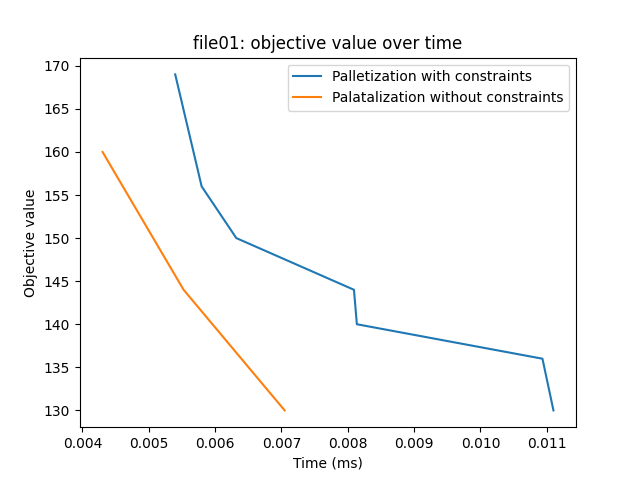
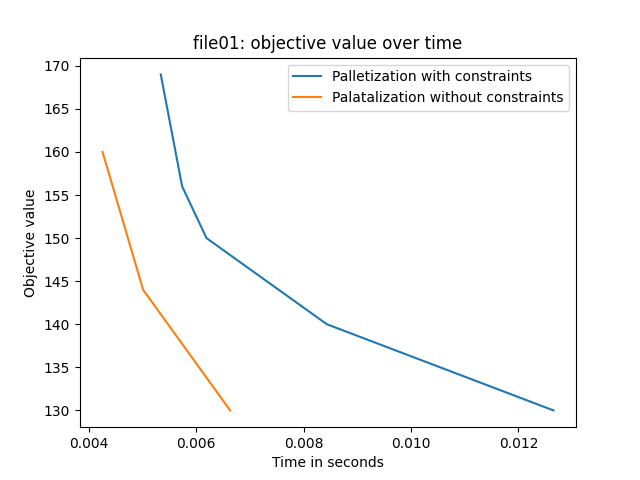
update

diff --git a/palletizationWithConstraints.py b/palletizationWithConstraints.py
@@ -306,7 +306,7 @@ if __name__ == "__main__":
     plt.plot(x_axis_2, y_axis_2, label="Palatalization without constraints")
     plt.legend()
 
-    plt.xlabel("Time (ms)")
+    plt.xlabel("Time in seconds")
     plt.ylabel("Objective value")
     plt.title(f"{fileName}: objective value over time")
     plt.savefig(f"{fileName}_optimization_progress.png")

diff --git a/README.md b/README.md
@@ -26,6 +26,17 @@ The **_benchmarks/data_** directory contains the files with the data for the pro
 - The second section contains the index of pairs of elements which have to be adjacent.
 - The third section contains the index pairs of elements which cannot be adjacent.
 
+Thus, the dimensions of elements will be:
+[(3, 5), (1, 4), (2, 6), (4, 7), (10, 5), (3, 6)]
+
+the adjacency elements will be:
+[(0, 1), (5, 4), (3, 2)]
+
+and the non-adjacency elements will be:
+[(1, 2)]
+
+**Note**: the adjacency and non-adjacency elements are indexed from 0, where 0 is the first element in the list and so on.
+
 It is possible to solve this problem in two ways:
 
 1. The basic one, without constraints
@@ -36,11 +47,11 @@ The solutions are stores in the **_benchmarks/_** directory, in the form of **th
 - The first one contains the position of each element in the arrangement, the area of the arrangement and the max values of **X** and **Y** coordinates.
 - The second one is an image of the arrangement.
   </br>
-  ![Image of the arrangement](benchmarks/solutions_with_constrains/solution_file02_with_constrains.png)
+  ![Image of the arrangement](benchmarks/file02/solutions_with_constrains/solution_file02_with_constrains.png)
   </br>
 - The third one is the optimization progress over time.
   </br>
-  ![Optimization progress](benchmarks/solutions_with_constrains/optimization_progress_file02_with_constrains.png)
+  ![Optimization progress](benchmarks/file02/file02_optimization_progress.png)
 
 ## How to run the program
 
